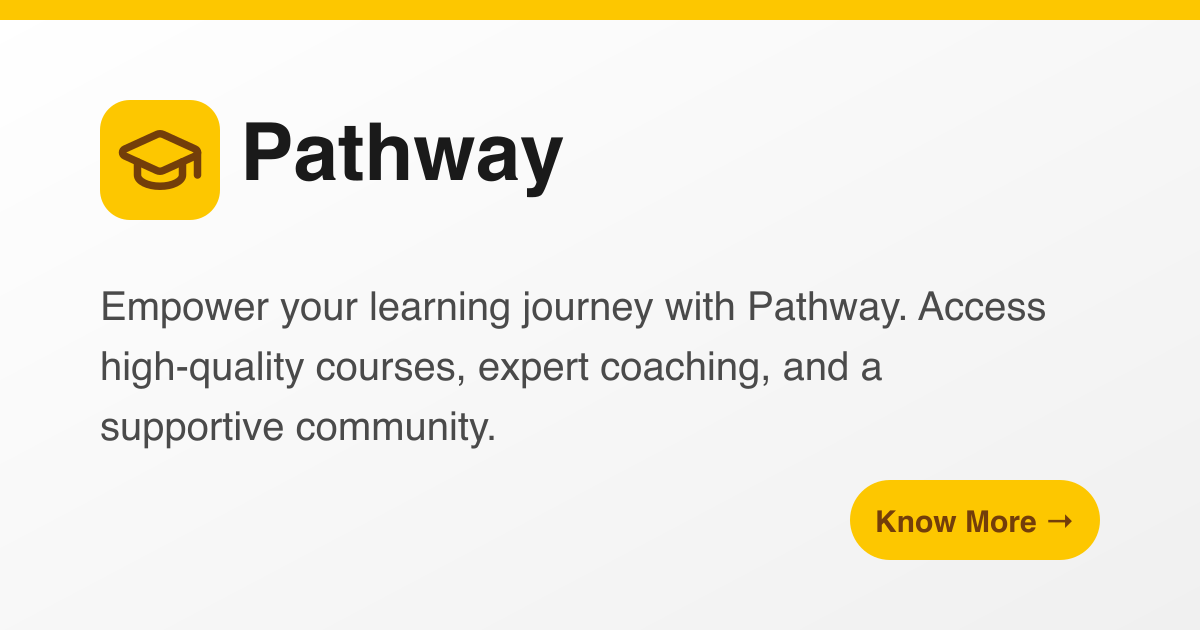
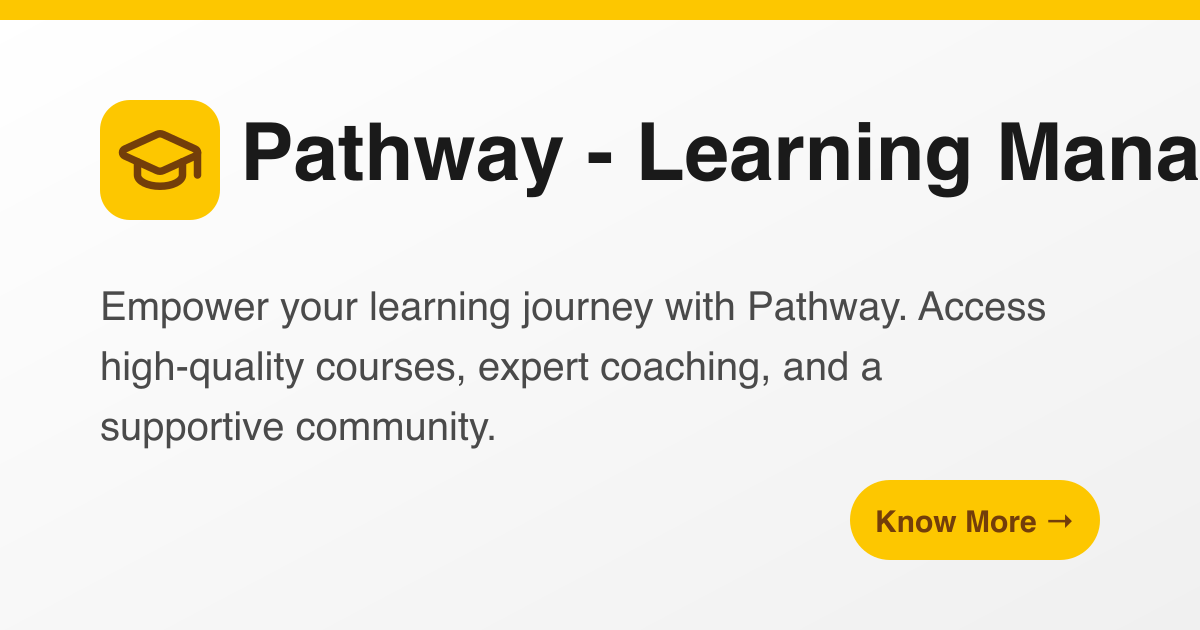
feat: Enhance SEO by adding global metadataBase and Twitter metadata, updating og-image assets, and refining Open Graph image generation across various pages.

Changed region(s): [[0.4933, 0.181, 1.0, 0.3317]]

diff --git a/packages/brand/scripts/generate.js b/packages/brand/scripts/generate.js
@@ -158,7 +158,7 @@ export const getColor = (name: string, mode: 'light' | 'dark' = 'light'): string
 //  GENERATE ASSETS
 // ═══════════════════════════════════════════════════════════════════════════
 
-async function generateAssets(lightVars) {
+async function generateAssets(lightVars, brandName) {
   console.log('\n📦 Generating assets...');
 
   if (!fs.existsSync(ASSETS_DIR)) {
@@ -198,7 +198,7 @@ async function generateAssets(lightVars) {
       ${ICON_PATHS.map(p => `<path d="${p}"/>`).join('\n      ')}
     </svg>
   </g>
-  <text x="${iconSize + gap}" y="${iconSize / 2 + 10}" font-family="system-ui, -apple-system, sans-serif" font-size="32" font-weight="700" fill="${textColor}">Pathway</text>
+  <text x="${iconSize + gap}" y="${iconSize / 2 + 10}" font-family="system-ui, -apple-system, sans-serif" font-size="32" font-weight="700" fill="${textColor}">${brandName}</text>
 </svg>`;
   };
 
@@ -305,6 +305,10 @@ async function generateAssets(lightVars) {
     const ogWidth = 1200;
     const ogHeight = 630;
 
+    // Parse brand metadata for SEO
+    const metadataPath = path.join(BRAND_DIR, 'src/metadata.ts');
+    const metadataContent = fs.readFileSync(metadataPath, 'utf-8');
+
     const escapeXml = (unsafe) => unsafe.replace(/[<>&'"]/g, c => {
       switch (c) {
         case '<': return '&lt;';
@@ -315,8 +319,13 @@ async function generateAssets(lightVars) {
       }
     });
 
-    const title = escapeXml('Pathway');
-    const desc = escapeXml('Empower your learning journey with Pathway. Access high-quality courses, expert coaching, and a supportive community.');
+    const titleMatch = metadataContent.match(/title:\s*'([^']+)'/);
+    const descMatch = metadataContent.match(/description:\s*'([^']+)'/);
+    const nameMatch = metadataContent.match(/name:\s*'([^']+)'/);
+
+    const title = escapeXml(titleMatch ? titleMatch[1] : 'Pathway');
+    const desc = escapeXml(descMatch ? descMatch[1] : 'Empower your learning journey with Pathway.');
+    const brandName = nameMatch ? nameMatch[1] : 'Pathway';
 
     const wrapText = (text, maxChars) => {
       const words = text.split(' ');
@@ -433,8 +442,13 @@ async function main() {
 
   console.log(`\n📖 Parsed ${Object.keys(lightVars).length} light vars, ${Object.keys(darkVars).length} dark vars`);
 
+  const metadataPath = path.join(BRAND_DIR, 'src/metadata.ts');
+  const metadataContent = fs.readFileSync(metadataPath, 'utf-8');
+  const nameMatch = metadataContent.match(/name:\s*'([^']+)'/);
+  const brandName = nameMatch ? nameMatch[1] : 'Pathway';
+
   generateTokensTS(lightVars, darkVars);
-  await generateAssets(lightVars);
+  await generateAssets(lightVars, brandName);
 
   console.log('\n✅ Generation complete!');
 }

diff --git a/frontend/src/app/coaches/[slug]/page.tsx b/frontend/src/app/coaches/[slug]/page.tsx
@@ -58,6 +58,26 @@ async function getCoachCourses(coachId: string): Promise<Course[]> {
     }
 }
 
+export async function generateMetadata({ params }: PageProps) {
+    const { slug } = await params;
+    const coach = await getCoachBySlug(slug);
+
+    if (!coach) {
+        return { title: "Coach Not Found" };
+    }
+
+    return {
+        title: `${coach.displayName} - Expert Coach at Pathway`,
+        description: coach.bio,
+        openGraph: {
+            title: `${coach.displayName} - Profile`,
+            description: coach.bio,
+            type: "profile",
+            ...(coach.profilePhoto ? { images: [{ url: coach.profilePhoto.url }] } : {}),
+        },
+    };
+}
+
 export default async function CoachProfilePage({ params }: PageProps) {
     const { slug } = await params;
     const coach = await getCoachBySlug(slug);

diff --git a/frontend/src/app/layout.tsx b/frontend/src/app/layout.tsx
@@ -21,6 +21,7 @@ export const dynamic = 'force-dynamic';
 import { brand } from "@org/brand/metadata";
 
 export const metadata: Metadata = {
+  metadataBase: new URL(brand.metadata.url),
   title: {
     default: brand.metadata.title,
     template: `%s | ${brand.metadata.title}`,
@@ -41,6 +42,13 @@ export const metadata: Metadata = {
         alt: brand.metadata.title,
       },
     ],
+  },
+  twitter: {
+    card: 'summary_large_image',
+    title: brand.metadata.title,
+    description: brand.metadata.description,
+    images: ['/og-image.png'],
+    creator: brand.metadata.author,
   },
   icons: {
     icon: '/favicon.ico',

diff --git a/frontend/src/app/blog/[slug]/page.tsx b/frontend/src/app/blog/[slug]/page.tsx
@@ -85,9 +85,7 @@ export async function generateMetadata({ params }: BlogPostPageProps) {
             description: post.seo?.metaDescription || post.excerpt,
             type: "article",
             publishedTime: post.publishedAt,
-            images: post.featuredImage
-                ? [{ url: post.featuredImage.url }]
-                : [],
+            ...(post.featuredImage ? { images: [{ url: post.featuredImage.url }] } : {}),
         },
     };
 }

diff --git a/frontend/src/app/courses/[slug]/page.tsx b/frontend/src/app/courses/[slug]/page.tsx
@@ -169,7 +169,7 @@ export async function generateMetadata({ params }: CoursePageProps) {
             title: course.seo?.metaTitle || course.title,
             description: course.seo?.metaDescription || course.shortDescription,
             type: "website",
-            images: course.thumbnail ? [{ url: course.thumbnail.url }] : [],
+            ...(course.thumbnail ? { images: [{ url: course.thumbnail.url }] } : {}),
         },
     };
 }

diff --git a/frontend/src/app/[slug]/page.tsx b/frontend/src/app/[slug]/page.tsx
@@ -53,7 +53,7 @@ export async function generateMetadata({ params }: StaticPageProps) {
             title: page.seo?.metaTitle || page.title,
             description: page.seo?.metaDescription,
             type: "website",
-            images: page.seo?.ogImage ? [{ url: page.seo.ogImage.url }] : [],
+            ...(page.seo?.ogImage ? { images: [{ url: page.seo.ogImage.url }] } : {}),
         },
     };
 }

diff --git a/packages/brand/src/tokens.ts b/packages/brand/src/tokens.ts
@@ -2,7 +2,7 @@
  * Design Tokens - Semantic color and spacing tokens
  * 
  * AUTO-GENERATED from theme.css - DO NOT EDIT MANUALLY
- * Generated: 2025-12-31T02:21:55.986Z
+ * Generated: 2025-12-31T21:06:47.732Z
  * 
  * To update: Edit theme.css and run: pnpm generate
  */
